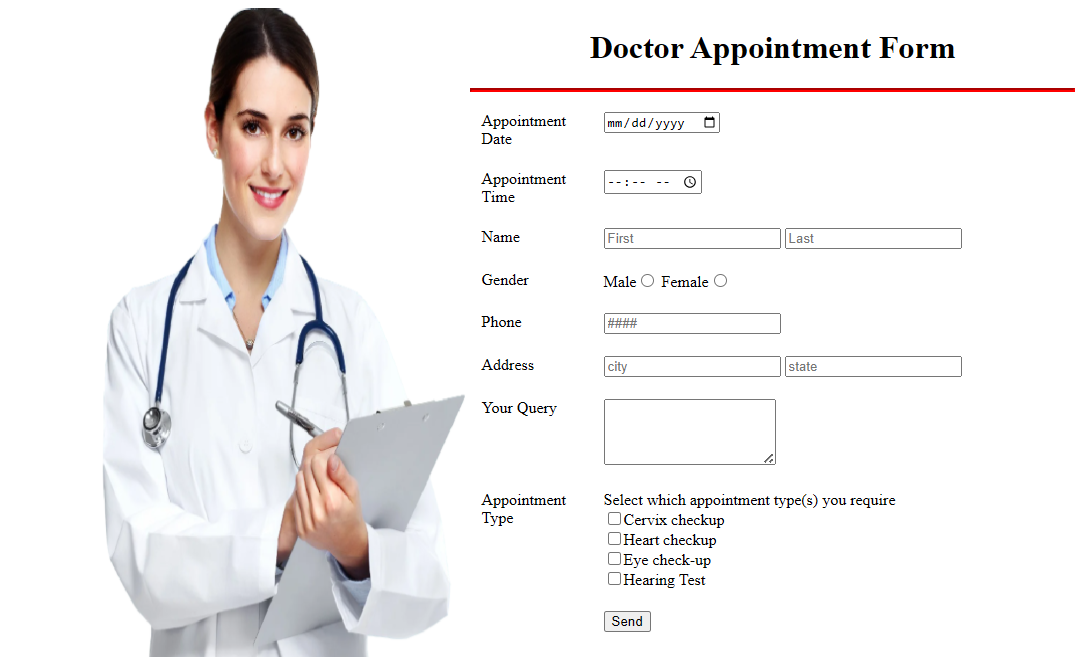
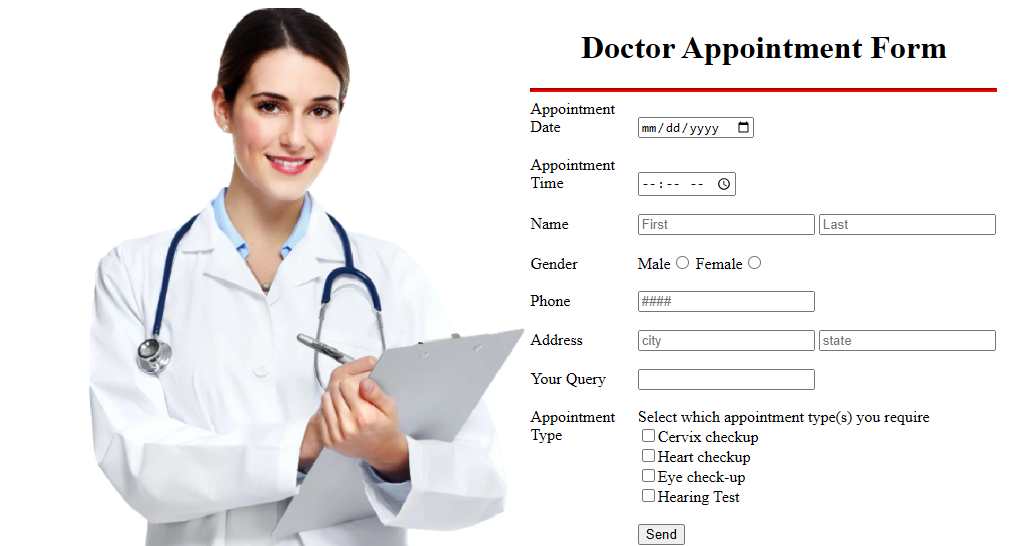
modified version

diff --git a/task 1/Task 1.1/index.html b/task 1/Task 1.1/index.html
@@ -4,75 +4,77 @@
 </head>
 <body>
     <div class="parent">
-        <!-- split the screen into right and left divs -->
-        <!-- left==>img
-        right==>doctor appoinment info -->
-        <div class="left">
-        <img src="images/image.png">
-        </div>
         <div class="right">
+        <img src="images/image.png" width="30%" height="100%">
+        </div>
+        <div class="left">
         <h1>Doctor Appointment Form</h1>
         <hr>
-        <!-- two rows table
-        first row the title
-        second row the inputs -->
-        <table>
-            <tr>
-                <td>Appointment Date</td>
-                <td><input type="date" name="date" placeholder="Appointment Date"></td>
-            </tr>
-            <tr>
-                <td>Appointment Time</td>
-                <td><input type="time" name="time" placeholder="Appointment time"></td>
-            </tr>
-            <tr>
-                <td>Name</td>
-                <td>
-                    <input type="text" name="first-name" placeholder="First"> 
-                    <input type="text" name="last-name" placeholder="Last"> 
-                </td>
-            </tr>
-            <tr>
-                <td>Gender</td>
-                <td>
-                    <span>Male</span><input type="radio" name="gender" value="male">
-                    <span>Female</span><input type="radio" name="gender" value="female"></td>
-            </tr>
-            <tr>
-                <td>Phone</td>
-                <td><input type="number" name="phone-number" placeholder="####"></td>
-            </tr>
-            <tr>
-                <td>Address</td>
-                <td>
-                    <input type="text" name="city" placeholder="city">
-                    <input type="text" name="state" placeholder="state">
-                </td>
-            </tr>
-            <tr>
-                <td>Your Query</td>
-                <td><textarea rows="4"></textarea></td>
-            </tr>
-            <tr>
-                <td>Appointment Type</td>
-                <td>
-                    <label>Select which appointment type(s) you require</label>
-                    <br>
-                    <input type="checkbox" name="checkup" value="Cervix checkup"><span>Cervix checkup</span>
-                    <br>
-                    <input type="checkbox" name="checkup" value="Heart checkup"><span>Heart checkup</span>
-                    <br>
-                    <input type="checkbox" name="checkup" value="Eye check-up"><span>Eye check-up</span>
-                    <br>
-                    <input type="checkbox" name="checkup" value="Hearing Test"><span>Hearing Test</span>
-                    <br>
-                </td>
-            </tr>
-            <tr>
-                <td></td>
-                <td><button>Send</button></td>
-            </tr>
-        </table>
+            <form>
+            <div class="item">
+            <label>Appointment Date</label>
+            </div>
+            <input type="date" name="date" placeholder="Appointment Date">
+            <br>
+            <br>
+            <div class="item">
+            <label>Appointment Time</label>
+            </div>
+            <input type="time" name="time" placeholder="Appointment Time">
+            <br>
+            <br>
+            <div class="item">
+            <label>Name</label>
+            </div>
+            <input type="text" name="first-name" placeholder="First">
+            <input type="text" name="last-name" placeholder="Last">
+            <br>
+            <br>
+            <div class="item">
+            <label>Gender</label>
+            </div>
+            <span>Male</span><input type="radio" name="gender" value="male">
+            <span>Female</span><input type="radio" name="gender" value="female">
+            <br>
+            <br>
+            <div class="item">
+            <label>Phone</label>
+            </div>
+            <input type="number" name="phone-number" placeholder="####">
+            <br>
+            <br>
+            <div class="item">
+            <label>Address</label>
+            </div>
+            <input type="text" name="city" placeholder="city">
+            <input type="text" name="state" placeholder="state">
+            <br>
+            <br>
+            <div class="item">
+            <label>Your Query</label>
+            </div>
+            <input type="query" name="query">
+            <br>
+            <br>
+            <div class="item">
+            <label>Appointment Type</label>
+            </div>
+            <div class="item2">
+            <label>Select which appointment type(s) you require</label>
+            <br>
+            <input type="checkbox" name="checkup" value="Cervix checkup"><span>Cervix checkup</span>
+            <br>
+            <input type="checkbox" name="checkup" value="Heart checkup"><span>Heart checkup</span>
+            <br>
+            <input type="checkbox" name="checkup" value="Eye check-up"><span>Eye check-up</span>
+            <br>
+            <input type="checkbox" name="checkup" value="Hearing Test"><span>Hearing Test</span>
+            <br>
+            <br>
+            <button>Send</button>
+            </div>
+            </form>
+        </div>
         </div>
    </div>
 </body>

diff --git a/task 1/Task 1.1/style.css b/task 1/Task 1.1/style.css
@@ -29,6 +29,16 @@ hr{
     width:50%
 }
 
+.item{
+    width: 20%;
+    padding-right: 10px;
+}
+
+.item2{
+    width: 70%;
+    vertical-align: top;
+}
+
 td{
     vertical-align: top;
     padding: 10px 10px;